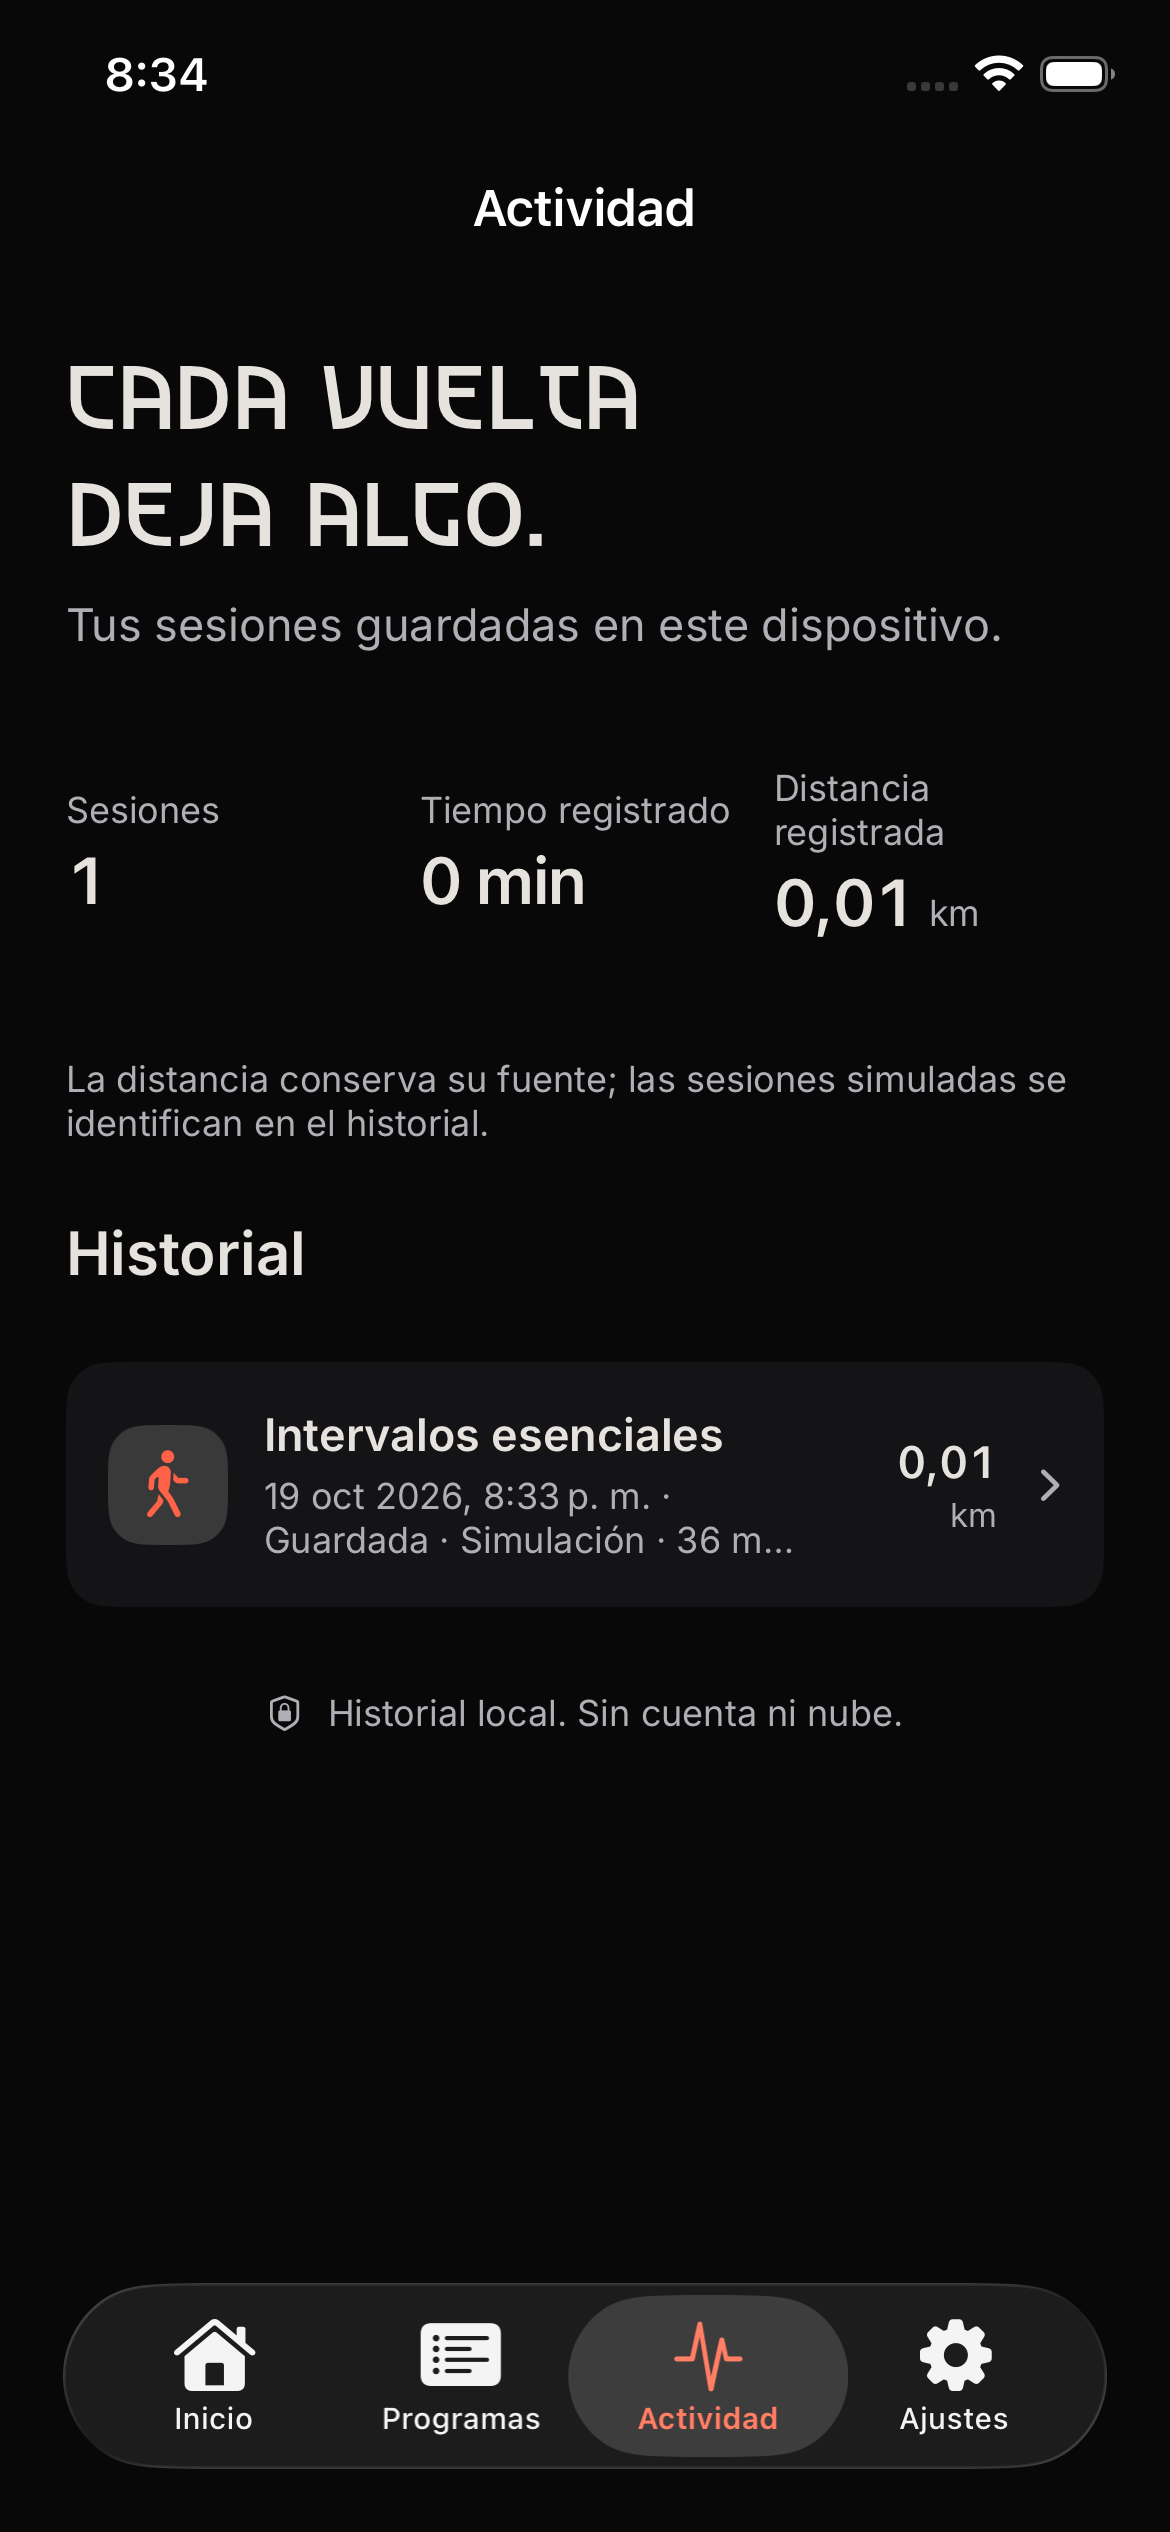
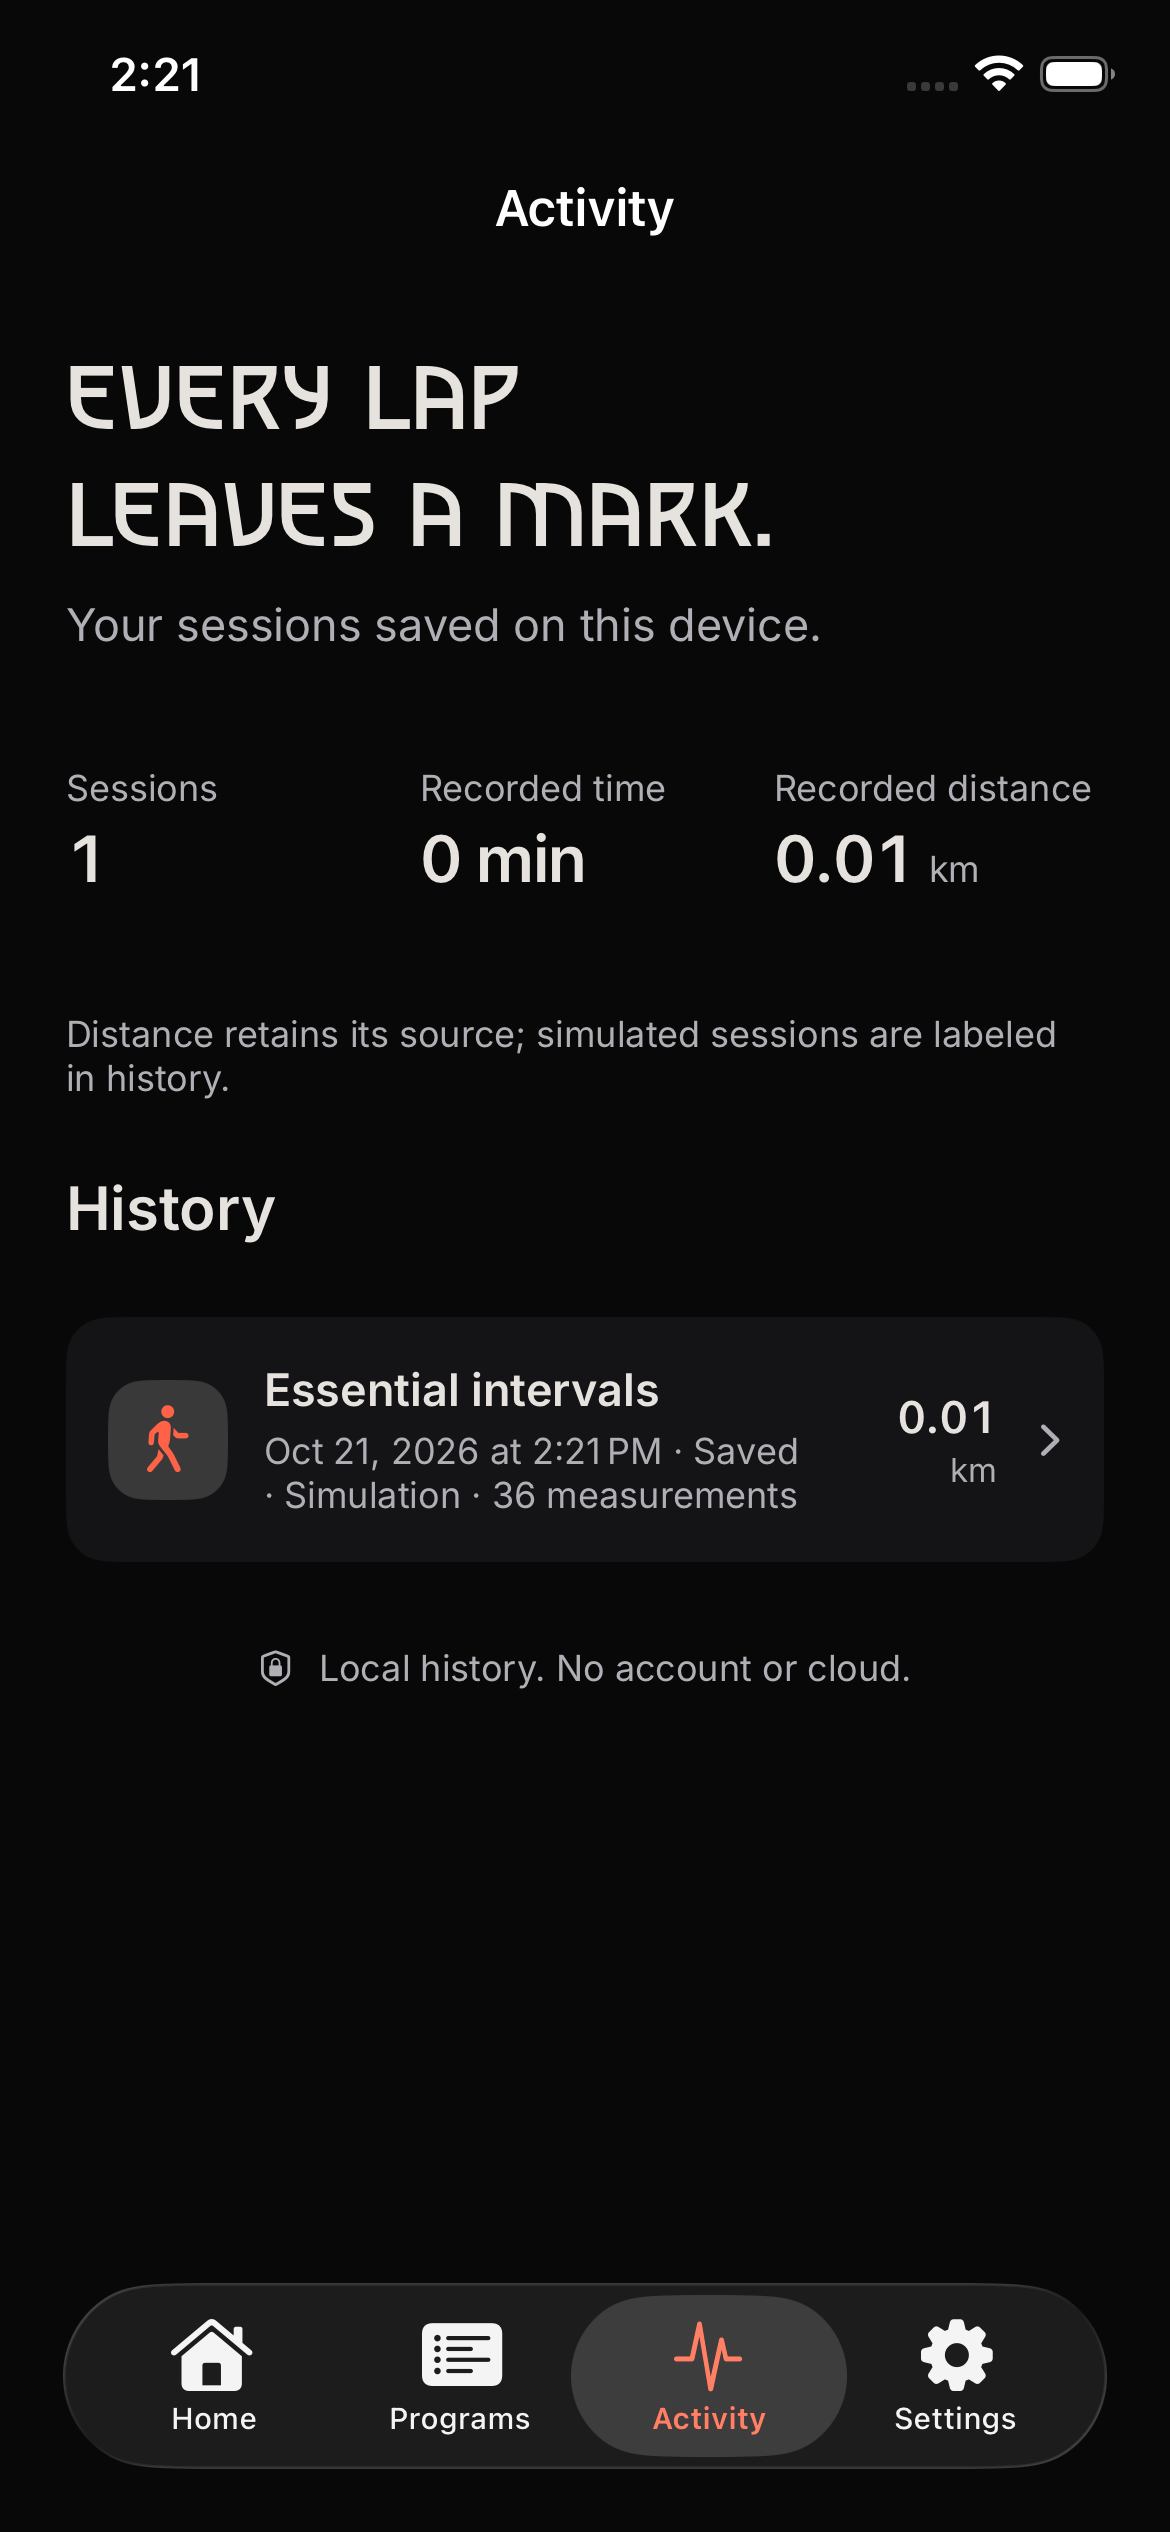
Capture the native product gallery in English

diff --git a/apple/Apps/VaganciaFitness/UITests/VaganciaFitnessUITests.swift b/apple/Apps/VaganciaFitness/UITests/VaganciaFitnessUITests.swift
@@ -252,23 +252,23 @@ final class VaganciaFitnessUITests: XCTestCase {
     }
 
     func testCaptureProductScreensAcrossThePrimaryFlows() {
-        let app = launchCleanApp()
+        let app = launchCleanApp(language: "en", region: "US")
         XCTAssertTrue(app.staticTexts["home-title"].waitForExistence(timeout: 5))
         capture(app, named: "product-home")
 
-        app.tabBars.buttons["Ajustes"].tap()
+        app.tabBars.buttons["Settings"].tap()
         enableDemoMode(in: app)
-        app.tabBars.buttons["Programas"].tap()
+        app.tabBars.buttons["Programs"].tap()
         capture(app, named: "product-programs")
 
         app.buttons["program-essential"].tap()
         capture(app, named: "product-program-detail")
-        app.buttons["Opciones del programa"].tap()
-        app.buttons["Editar programa"].tap()
-        XCTAssertTrue(app.navigationBars["Editar programa"].waitForExistence(timeout: 3))
+        app.buttons["Program options"].tap()
+        app.buttons["Edit program"].tap()
+        XCTAssertTrue(app.navigationBars["Edit program"].waitForExistence(timeout: 3))
         capture(app, named: "product-program-editor")
-        app.buttons["Cancelar"].tap()
-        app.buttons["Descartar cambios"].tap()
+        app.buttons["Cancel"].tap()
+        app.buttons["Discard changes"].tap()
 
         app.buttons["start-program"].tap()
         XCTAssertTrue(app.buttons["confirm-workout-start"].waitForExistence(timeout: 3))
@@ -279,20 +279,20 @@ final class VaganciaFitnessUITests: XCTestCase {
         capture(app, named: "product-active-workout")
         app.buttons["finish-workout"].tap()
         confirmFinish(in: app)
-        XCTAssertTrue(app.staticTexts["Sesión guardada"].waitForExistence(timeout: 8))
+        XCTAssertTrue(app.staticTexts["Session saved"].waitForExistence(timeout: 8))
         XCTAssertTrue(
             app.descendants(matching: .any).matching(identifier: "speed-source-legend-mock").firstMatch
                 .exists)
         capture(app, named: "product-workout-summary")
 
         app.swipeUp()
-        XCTAssertTrue(app.buttons["Volver a Actividad"].waitForExistence(timeout: 3))
-        app.buttons["Volver a Actividad"].tap()
-        XCTAssertTrue(app.tabBars.buttons["Actividad"].waitForExistence(timeout: 5))
-        app.tabBars.buttons["Actividad"].tap()
-        XCTAssertTrue(app.staticTexts["Historial"].waitForExistence(timeout: 5))
+        XCTAssertTrue(app.buttons["Back to Activity"].waitForExistence(timeout: 3))
+        app.buttons["Back to Activity"].tap()
+        XCTAssertTrue(app.tabBars.buttons["Activity"].waitForExistence(timeout: 5))
+        app.tabBars.buttons["Activity"].tap()
+        XCTAssertTrue(app.staticTexts["History"].waitForExistence(timeout: 5))
         capture(app, named: "product-activity")
-        app.tabBars.buttons["Ajustes"].tap()
+        app.tabBars.buttons["Settings"].tap()
         capture(app, named: "product-settings")
     }
 

diff --git a/apple/scripts/export-documentation-screenshots.py b/apple/scripts/export-documentation-screenshots.py
@@ -30,8 +30,8 @@ CAPTURES = {
          "product-activity": "app-history.png", "product-workout-summary": "app-results.png"},
     ),
     "sharing": (
-        "VaganciaFitnessUITests/testStopKeepsSummaryUntilExplicitReturnAndImageOpensShareSheet()",
-        {"product-image-system-share-083": "app-share-sheet.png"},
+        "VaganciaFitnessUITests/testEnglishNavigationProgramWatchWorkoutAndImageShare()",
+        {"localization-en-share-image": "app-share-sheet.png"},
     ),
     "debug": (
         "SessionFlowTests/testNativeLiquidGlassTabsKeepHistoricalMetricsAndMotorGates()",

diff --git a/docs/images/README.md b/docs/images/README.md
@@ -1,6 +1,6 @@
 # Native app captures
 
-These images show the checked-in native SwiftUI apps in Spanish on an iPhone simulator and the actual PNG produced by the native share-card renderer. System share actions reflect the simulator's installed apps and language settings. All workout and diagnostic values come from isolated synthetic UI-test scenarios. They contain no hardware-session exports, operator notes, health records, real device identifiers or third-party FitShow screenshots. The product brand retains its [separate notice](../../shared/brand/NOTICE.md).
+The README gallery shows the checked-in native SwiftUI product in English on an iPhone simulator and the actual PNG produced by the native share-card renderer. System share actions reflect the simulator's installed apps and language settings. All workout and diagnostic values come from isolated synthetic UI-test scenarios. They contain no hardware-session exports, operator notes, health records, real device identifiers or third-party FitShow screenshots. The product brand retains its [separate notice](../../shared/brand/NOTICE.md).
 
 | Image | Native UI test | Attachment name |
 | --- | --- | --- |
@@ -8,13 +8,24 @@ These images show the checked-in native SwiftUI apps in Spanish on an iPhone sim
 | [Workout](app-workout.png) | Same product test | `product-active-workout` |
 | [History](app-history.png) | Same product test | `product-activity` |
 | [Results](app-results.png) | Same product test | `product-workout-summary` |
-| [Share sheet](app-share-sheet.png) | `VaganciaFitnessUITests.testStopKeepsSummaryUntilExplicitReturnAndImageOpensShareSheet` | `product-image-system-share-083` |
+| [Share sheet](app-share-sheet.png) | `VaganciaFitnessUITests.testEnglishNavigationProgramWatchWorkoutAndImageShare` | `localization-en-share-image` |
 | [Exported image](app-share-card.png) | Same sharing test | Native renderer output from the simulator app's temporary `VaganciaFitnessShare/` directory; not an XCTest attachment |
-| [Debug](app-debug.png) | `SessionFlowTests.testNativeLiquidGlassTabsKeepHistoricalMetricsAndMotorGates` | `liquid-glass-session` |
+| [Debug reference (Spanish)](app-debug.png) | `SessionFlowTests.testNativeLiquidGlassTabsKeepHistoricalMetricsAndMotorGates` | `liquid-glass-session` |
+
+The separate Debug app retains Spanish interface text. Its reference remains available here, outside the English product gallery.
 
 The results capture shows a program workout. The exported image and share sheet use a separate free-workout test session and therefore show different values. The exported image carries the native simulated-example label; it does not represent a physical workout or a HealthKit save.
 
-Run `./apple/scripts/test ui-product` and `./apple/scripts/test ui-debug` with an installed supported simulator. The tests retain the named screenshot attachments in their `.xcresult` bundles under ignored `build/apple/Results/`. Export attachments with `xcrun xcresulttool export attachments --path RESULT_BUNDLE --output-path NEW_DIRECTORY`; its `manifest.json` maps test identifiers and attachment names to files. Keep the full run and attachment manifest private under `build/`.
+Run the product capture tests with an installed supported simulator:
+
+```sh
+./apple/scripts/test ui-product \
+  -only-testing:VaganciaFitnessUITests/VaganciaFitnessUITests/testCaptureProductScreensAcrossThePrimaryFlows \
+  -only-testing:VaganciaFitnessUITests/VaganciaFitnessUITests/testEnglishNavigationProgramWatchWorkoutAndImageShare \
+  -parallel-testing-enabled NO -testLanguage en -testRegion US
+```
+
+Both product tests launch the app with English and the US locale. `-testLanguage en -testRegion US` also selects the test language and region for system UI. Run `./apple/scripts/test ui-debug` separately to refresh the Spanish Debug reference. The tests retain the named screenshot attachments in their `.xcresult` bundles under ignored `build/apple/Results/`. Export attachments with `xcrun xcresulttool export attachments --path RESULT_BUNDLE --output-path NEW_DIRECTORY`; its `manifest.json` maps test identifiers and attachment names to files. Keep the full run and attachment manifest private under `build/`.
 
 Visually review the selected captures, then use the metadata-only [exporter](../../apple/scripts/export-documentation-screenshots.py) to refresh the fixed filenames:
 

diff --git a/README.md b/README.md
@@ -10,17 +10,16 @@ Distribution is source-only. Build the apps locally using the [Apple development
 
 <table>
   <tr>
-    <th>Home</th><th>Workout</th><th>History</th><th>Debug</th>
+    <th>Home</th><th>Workout</th><th>History</th>
   </tr>
   <tr>
     <td><img src="docs/images/app-home.png" alt="Native home screen with workout and program entry points" width="200"></td>
     <td><img src="docs/images/app-workout.png" alt="Demonstration workout with explicitly simulated measurements" width="200"></td>
     <td><img src="docs/images/app-history.png" alt="Local workout history containing a synthetic session" width="200"></td>
-    <td><img src="docs/images/app-debug.png" alt="Separate Bluetooth diagnostic app showing synthetic telemetry" width="200"></td>
   </tr>
 </table>
 
-Open the full-size captures: [Home](docs/images/app-home.png), [Workout](docs/images/app-workout.png), [History](docs/images/app-history.png), [Debug](docs/images/app-debug.png).
+Open the full-size captures: [Home](docs/images/app-home.png), [Workout](docs/images/app-workout.png), [History](docs/images/app-history.png).
 
 ### Results and sharing
 
@@ -39,7 +38,7 @@ Open full size: [Results](docs/images/app-results.png), [Exported image](docs/im
 
 The middle image is the actual PNG that the native app exports through the iOS share sheet. The results screen shows a program workout; the shared image and share sheet show a separate free-workout test session, so their values differ. All measurements are synthetic. System share actions reflect the simulator's installed apps and language settings.
 
-These are native SwiftUI simulator captures from isolated UI-test scenarios, with synthetic data. They do not establish hardware compatibility or sensor accuracy. [Try the demonstration walkthrough](docs/guides/using-the-app.md#try-a-workout-without-hardware); [capture sources](docs/images/README.md) identify the reproducible test flows.
+These are native SwiftUI simulator captures in English from isolated UI-test scenarios, with synthetic data. They do not establish hardware compatibility or sensor accuracy. [Try the demonstration walkthrough](docs/guides/using-the-app.md#try-a-workout-without-hardware); [capture sources](docs/images/README.md) identify the reproducible test flows and the separate Spanish-language Debug reference.
 
 ## Start here
 
